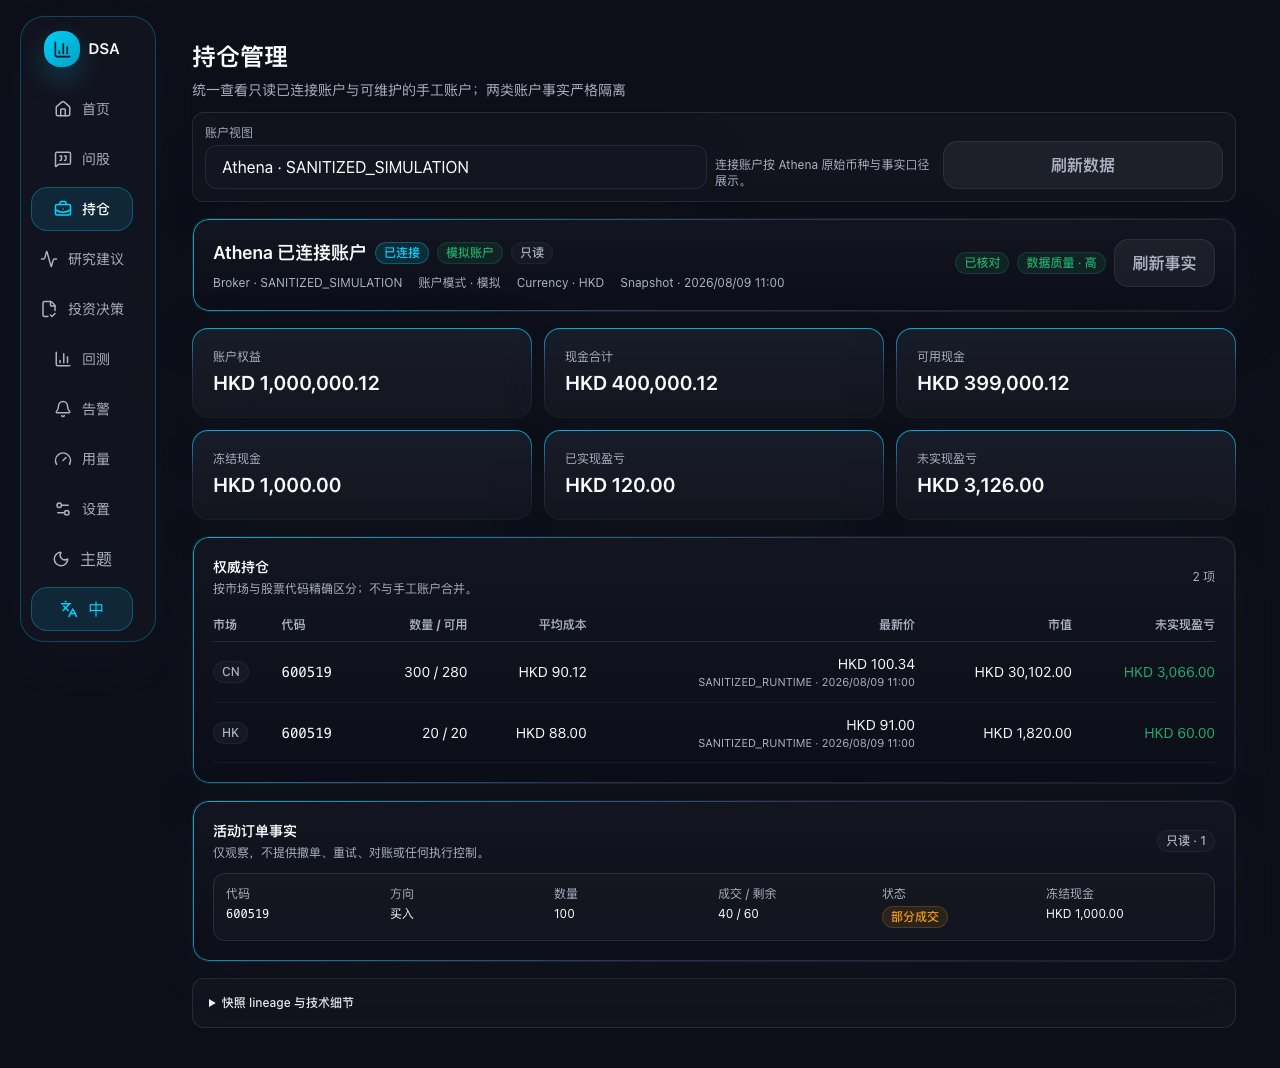
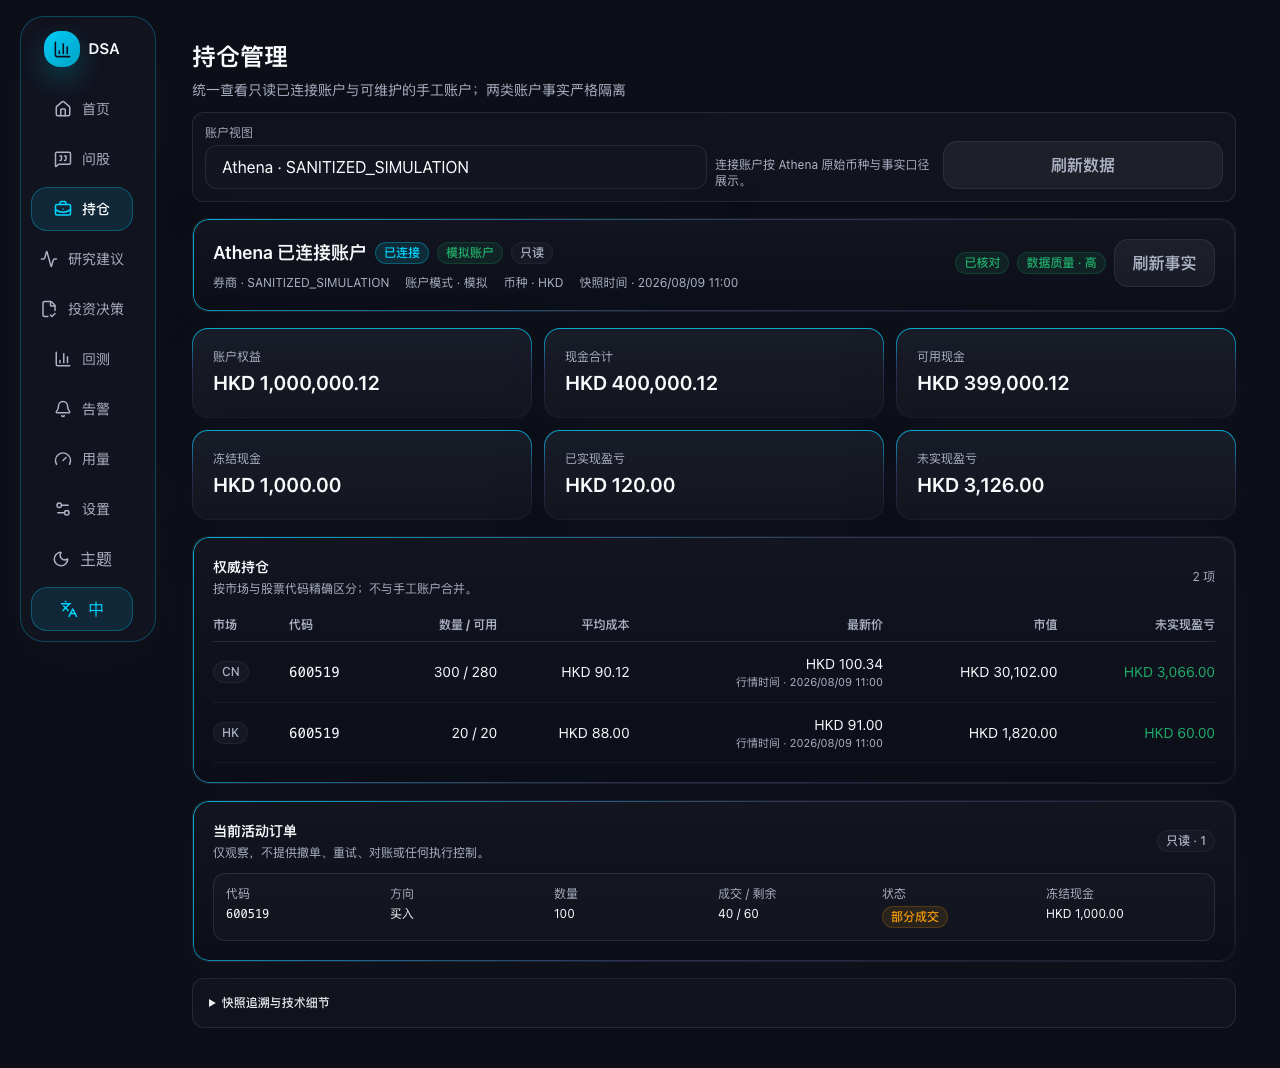
fix: align connected account status semantics

diff --git a/apps/dsa-web/src/components/portfolio/ConnectedPortfolioAccountView.tsx b/apps/dsa-web/src/components/portfolio/ConnectedPortfolioAccountView.tsx
@@ -19,9 +19,17 @@ function formatCanonicalMoney(value: string, currency: string): string {
   })}`;
 }
 
-function statusVariant(value: string): 'success' | 'warning' | 'danger' {
-  if (value === 'RECONCILED' || value === 'HIGH') return 'success';
-  if (value === 'UNKNOWN' || value === 'LOW') return 'danger';
+function reconciliationVariant(
+  value: ConnectedPortfolioSnapshot['reconciliationStatus'],
+): 'success' | 'warning' {
+  return value === 'RECONCILED' ? 'success' : 'warning';
+}
+
+function dataQualityVariant(
+  value: ConnectedPortfolioSnapshot['dataQuality'],
+): 'success' | 'warning' | 'danger' {
+  if (value === 'HIGH') return 'success';
+  if (value === 'LOW') return 'danger';
   return 'warning';
 }
 
@@ -79,7 +87,7 @@ const ConnectedPortfolioAccountView: React.FC<ConnectedPortfolioAccountViewProps
         ) : (
           <EmptyState
             title={loading ? '正在读取权威账户快照' : '尚未取得权威账户快照'}
-            description="此视图只接受 Athena runtime 的 authoritative、read-only、simulation-only PortfolioSnapshot。"
+            description="此视图只接受来自 Athena 运行时的权威、只读、仅模拟账户快照。"
             className="mt-4"
           />
         )}
@@ -113,17 +121,23 @@ const ConnectedPortfolioAccountView: React.FC<ConnectedPortfolioAccountViewProps
               <Badge variant="default">只读</Badge>
             </div>
             <div className="mt-2 flex flex-wrap gap-x-4 gap-y-1 text-xs text-secondary">
-              <span>Broker · {snapshot.broker}</span>
+              <span>券商 · {snapshot.broker}</span>
               <span>账户模式 · 模拟</span>
-              <span>Currency · {snapshot.currency}</span>
-              <span>Snapshot · {formatDateTime(snapshot.asOf)}</span>
+              <span>币种 · {snapshot.currency}</span>
+              <span>快照时间 · {formatDateTime(snapshot.asOf)}</span>
             </div>
           </div>
           <div className="flex flex-wrap items-center gap-2">
-            <Badge variant={statusVariant(snapshot.reconciliationStatus)}>
+            <Badge
+              data-testid="connected-reconciliation-status"
+              variant={reconciliationVariant(snapshot.reconciliationStatus)}
+            >
               {reconciliationLabels[snapshot.reconciliationStatus]}
             </Badge>
-            <Badge variant={statusVariant(snapshot.dataQuality)}>
+            <Badge
+              data-testid="connected-data-quality"
+              variant={dataQualityVariant(snapshot.dataQuality)}
+            >
               数据质量 · {dataQualityLabels[snapshot.dataQuality]}
             </Badge>
             <button type="button" className="btn-secondary text-sm" onClick={onRefresh} disabled={loading}>
@@ -165,7 +179,7 @@ const ConnectedPortfolioAccountView: React.FC<ConnectedPortfolioAccountViewProps
           <span className="text-xs text-secondary">{snapshot.positions.length} 项</span>
         </div>
         {snapshot.positions.length === 0 ? (
-          <EmptyState title="暂无权威持仓" description="该结果来自 Athena 当前 observed runtime state。" />
+          <EmptyState title="暂无权威持仓" description="该结果来自 Athena 当前运行时观察到的账户事实。" />
         ) : (
           <div className="overflow-x-auto">
             <table className="min-w-[920px] w-full text-sm">
@@ -189,7 +203,7 @@ const ConnectedPortfolioAccountView: React.FC<ConnectedPortfolioAccountViewProps
                     <td className="py-3 pr-3 text-right">{formatCanonicalMoney(position.avgCost, snapshot.currency)}</td>
                     <td className="py-3 pr-3 text-right">
                       <div>{formatCanonicalMoney(position.lastPrice, snapshot.currency)}</div>
-                      <div className="text-[11px] text-secondary">{position.priceSource} · {formatDateTime(position.priceAsOf)}</div>
+                      <div className="text-[11px] text-secondary">行情时间 · {formatDateTime(position.priceAsOf)}</div>
                     </td>
                     <td className="py-3 pr-3 text-right">{formatCanonicalMoney(position.marketValue, snapshot.currency)}</td>
                     <td className={`py-3 text-right ${Number(position.unrealizedPnl) >= 0 ? 'text-success' : 'text-danger'}`}>
@@ -206,13 +220,13 @@ const ConnectedPortfolioAccountView: React.FC<ConnectedPortfolioAccountViewProps
       <Card padding="md">
         <div className="mb-3 flex items-center justify-between gap-3">
           <div>
-            <h3 className="text-sm font-semibold text-foreground">活动订单事实</h3>
+            <h3 className="text-sm font-semibold text-foreground">当前活动订单</h3>
             <p className="mt-1 text-xs text-secondary">仅观察，不提供撤单、重试、对账或任何执行控制。</p>
           </div>
           <Badge variant="default">只读 · {snapshot.activeOrders.length}</Badge>
         </div>
         {snapshot.activeOrders.length === 0 ? (
-          <EmptyState title="暂无活动订单" description="此处不推断订单，也不触发 reconciliation。" />
+          <EmptyState title="暂无活动订单" description="此处不推断订单，也不触发账户核对。" />
         ) : (
           <div className="space-y-2">
             {snapshot.activeOrders.map((order) => (
@@ -221,7 +235,7 @@ const ConnectedPortfolioAccountView: React.FC<ConnectedPortfolioAccountViewProps
                 <div><span className="text-secondary">方向</span><div className="mt-1 text-foreground">{order.side === 'BUY' ? '买入' : '卖出'}</div></div>
                 <div><span className="text-secondary">数量</span><div className="mt-1 text-foreground">{order.quantity}</div></div>
                 <div><span className="text-secondary">成交 / 剩余</span><div className="mt-1 text-foreground">{order.filledQuantity} / {order.remainingQuantity}</div></div>
-                <div><span className="text-secondary">状态</span><div className="mt-1"><Badge variant={order.state === 'UNKNOWN' ? 'danger' : 'warning'}>{orderStateLabels[order.state]}</Badge></div></div>
+                <div><span className="text-secondary">状态</span><div className="mt-1"><Badge data-testid={`connected-order-state-${order.brokerOrderId}`} variant="warning">{orderStateLabels[order.state]}</Badge></div></div>
                 <div><span className="text-secondary">冻结现金</span><div className="mt-1 text-foreground">{formatCanonicalMoney(order.reservedCash, snapshot.currency)}</div></div>
               </div>
             ))}
@@ -230,13 +244,19 @@ const ConnectedPortfolioAccountView: React.FC<ConnectedPortfolioAccountViewProps
       </Card>
 
       <details className="rounded-xl border border-white/10 bg-white/[0.02] p-4 text-xs text-secondary">
-        <summary className="cursor-pointer font-medium text-foreground">快照 lineage 与技术细节</summary>
+        <summary className="cursor-pointer font-medium text-foreground">快照追溯与技术细节</summary>
         <dl className="mt-3 grid gap-2 break-all md:grid-cols-2">
-          <div><dt>snapshot_id</dt><dd className="font-mono text-foreground">{snapshot.snapshotId}</dd></div>
-          <div><dt>revision / supersedes</dt><dd className="font-mono text-foreground">{snapshot.revision} / {snapshot.supersedesId || '—'}</dd></div>
-          <div><dt>producer</dt><dd className="font-mono text-foreground">{snapshot.producer}</dd></div>
-          <div><dt>created_at</dt><dd className="font-mono text-foreground">{snapshot.createdAt}</dd></div>
-          <div className="md:col-span-2"><dt>content_hash</dt><dd className="font-mono text-foreground">{snapshot.contentHash}</dd></div>
+          <div><dt>账户快照 ID</dt><dd className="font-mono text-foreground">{snapshot.snapshotId}</dd></div>
+          <div><dt>修订号 / 前序快照</dt><dd className="font-mono text-foreground">{snapshot.revision} / {snapshot.supersedesId || '—'}</dd></div>
+          <div><dt>生产者</dt><dd className="font-mono text-foreground">{snapshot.producer}</dd></div>
+          <div><dt>创建时间</dt><dd className="font-mono text-foreground">{snapshot.createdAt}</dd></div>
+          <div className="md:col-span-2">
+            <dt>行情来源</dt>
+            <dd className="font-mono text-foreground">
+              {snapshot.positions.map((position) => `${position.market}:${position.symbol}=${position.priceSource}`).join('；') || '—'}
+            </dd>
+          </div>
+          <div className="md:col-span-2"><dt>内容哈希</dt><dd className="font-mono text-foreground">{snapshot.contentHash}</dd></div>
         </dl>
       </details>
     </div>

diff --git a/apps/dsa-web/src/pages/__tests__/PortfolioPage.test.tsx b/apps/dsa-web/src/pages/__tests__/PortfolioPage.test.tsx
@@ -3,6 +3,7 @@ import { act, fireEvent, render, screen, waitFor, within } from '@testing-librar
 import { beforeEach, describe, expect, it, vi } from 'vitest';
 import { decisionSignalsApi } from '../../api/decisionSignals';
 import { createApiError, createParsedApiError } from '../../api/error';
+import ConnectedPortfolioAccountView from '../../components/portfolio/ConnectedPortfolioAccountView';
 import { UiLanguageProvider } from '../../contexts/UiLanguageContext';
 import type { DecisionSignalItem } from '../../types/decisionSignals';
 import { UI_LANGUAGE_STORAGE_KEY } from '../../utils/uiLanguage';
@@ -441,6 +442,12 @@ describe('PortfolioPage FX refresh', () => {
 
     const connected = await screen.findByTestId('connected-account-view');
     expect(within(connected).getByText('Athena 已连接账户')).toBeInTheDocument();
+    expect(within(connected).getByText('券商 · ATHENA_DECIMAL_SIM')).toBeInTheDocument();
+    expect(within(connected).getByText('币种 · HKD')).toBeInTheDocument();
+    expect(within(connected).getByText(/^快照时间 ·/)).toBeInTheDocument();
+    expect(within(connected).getByText('快照追溯与技术细节')).toBeInTheDocument();
+    expect(within(connected).getAllByText(/^行情时间 ·/)).toHaveLength(2);
+    expect(within(connected).queryByText(/^(Broker|Currency|Snapshot) ·/)).not.toBeInTheDocument();
     expect(within(connected).getAllByText('HKD', { exact: false }).length).toBeGreaterThan(0);
     expect(within(connected).getAllByText('600519')).toHaveLength(3);
     expect(within(connected).getByText('CN')).toBeInTheDocument();
@@ -459,6 +466,49 @@ describe('PortfolioPage FX refresh', () => {
     fireEvent.change(accountSelect, { target: { value: '1' } });
     expect(await screen.findByRole('button', { name: '提交交易' })).toBeInTheDocument();
     expect(screen.getByRole('button', { name: '提交资金流水' })).toBeInTheDocument();
+  });
+
+  it('renders UNKNOWN facts as pending warnings rather than failures', async () => {
+    const snapshot = makeConnectedSnapshot();
+    getConnectedSnapshot.mockResolvedValueOnce({
+      ...snapshot,
+      reconciliationStatus: 'UNKNOWN' as const,
+      dataQuality: 'UNKNOWN' as const,
+      limitations: [],
+      activeOrders: [{ ...snapshot.activeOrders[0], state: 'UNKNOWN' as const }],
+    });
+    render(<PortfolioPage />);
+    await waitForInitialLoad();
+
+    fireEvent.change(screen.getAllByRole('combobox')[0], { target: { value: 'connected' } });
+
+    const connected = await screen.findByTestId('connected-account-view');
+    for (const testId of [
+      'connected-reconciliation-status',
+      'connected-data-quality',
+      'connected-order-state-order-read-only-1',
+    ]) {
+      const badge = within(connected).getByTestId(testId);
+      expect(badge).toHaveClass('text-warning');
+      expect(badge).not.toHaveClass('text-danger');
+      expect(badge).not.toHaveClass('text-success');
+    }
+    expect(within(connected).getAllByText(/待确认/).length).toBeGreaterThanOrEqual(3);
+  });
+
+  it('uses Chinese product language for the empty connected-account state', () => {
+    render(
+      <ConnectedPortfolioAccountView
+        snapshot={null}
+        loading={false}
+        error={null}
+        onRefresh={vi.fn()}
+      />,
+    );
+
+    expect(screen.getByText('尚未取得权威账户快照')).toBeInTheDocument();
+    expect(screen.getByText('此视图只接受来自 Athena 运行时的权威、只读、仅模拟账户快照。')).toBeInTheDocument();
+    expect(screen.queryByText(/authoritative|read-only|simulation-only|PortfolioSnapshot/)).not.toBeInTheDocument();
   });
 
   it('shows connected unavailability explicitly without fabricating zero balances', async () => {

diff --git a/apps/dsa-web/e2e/portfolio-account-center-visual.spec.ts b/apps/dsa-web/e2e/portfolio-account-center-visual.spec.ts
@@ -106,6 +106,11 @@ test.describe('portfolio account center v1 visual evidence', () => {
     await expect(page.getByTestId('connected-account-view')).toBeVisible();
     await expect(page.getByText('已核对', { exact: true })).toBeVisible();
     await expect(page.getByText('数据质量 · 高')).toBeVisible();
+    await expect(page.getByText('券商 · SANITIZED_SIMULATION')).toBeVisible();
+    await expect(page.getByText('币种 · HKD')).toBeVisible();
+    await expect(page.getByText(/快照时间 ·/)).toBeVisible();
+    await expect(page.getByText(/行情时间 ·/).first()).toBeVisible();
+    await expect(page.getByText('快照追溯与技术细节')).toBeVisible();
     await expect(page.getByText('CN', { exact: true })).toBeVisible();
     await expect(page.getByText('HK', { exact: true })).toBeVisible();
     await expect(page.getByRole('button', { name: '提交交易' })).toHaveCount(0);

diff --git a/docs/DSA_PORTFOLIO_ACCOUNT_CENTER_V1.md b/docs/DSA_PORTFOLIO_ACCOUNT_CENTER_V1.md
@@ -1,6 +1,6 @@
 # DSA 持仓统一账户中心 v1
 
-Status: implementation complete on `ui/portfolio-account-center-v1`; pending architecture review. This document is subordinate to `SINGLE_BRAIN_CONSTITUTION.md` and `DSA_UI_ARCHITECTURE_V1.md`.
+Status: implementation complete on `ui/portfolio-account-center-v1`; Architecture Review UI-semantic follow-up applied, pending re-review. This document is subordinate to `SINGLE_BRAIN_CONSTITUTION.md` and `DSA_UI_ARCHITECTURE_V1.md`.
 
 ## Account source model
 
@@ -48,7 +48,7 @@ The connected view contains no manual trade, cash, corporate-action, CSV, FX mut
 
 Invalid, unavailable, stale, future-dated, non-UTC, wrong-account, non-authoritative, writable, or non-simulation input fails closed with a visible “已连接账户暂时不可用” state. Manual accounts remain selectable and usable.
 
-`DEGRADED`, `PENDING_RECONCILIATION`, `UNKNOWN`, low data quality, and explicit limitations are displayed as factual warning states. The UI does not convert them into success or trigger remediation.
+`DEGRADED`, `PENDING_RECONCILIATION`, `UNKNOWN`, and explicit limitations are displayed as factual warning states. `UNKNOWN` is specifically rendered as pending confirmation, never success or failure/danger; low data quality may retain a danger treatment. The UI does not trigger remediation.
 
 ## Authority and navigation
 
@@ -61,14 +61,14 @@ No fuzzy cross-page lineage links were added. Deterministic navigation can be ad
 - The canonical P0 `ActiveOrder` schema does not contain limit price or market, so v1 displays only actual contract fields and does not invent either value.
 - Connected and manual assets are intentionally not aggregated into one total.
 - Multiple connected accounts, account connection management, trading controls, and broker lifecycle controls remain out of scope.
-- UI labels are Chinese-first; existing English page copy remains available, while connected-card detail copy can be localized in a later UI-only phase.
+- The connected-account primary surface and collapsed technical-detail labels are Chinese-first; canonical identifiers and producer values remain unchanged.
 
 ## Review evidence
 
 - Backend full gate: 5,891 passed, 4 deselected, 501 subtests passed.
-- Frontend full unit suite: 1,100 passed, 2 skipped across 103 files.
+- Frontend full unit suite: 1,102 passed, 2 skipped across 103 files.
 - Focused backend portfolio/architecture suite: 84 passed, including all 16 connected-account cases.
-- Focused frontend API/page suite: 31 passed.
+- Focused frontend API/page suite: 33 passed.
 - TypeScript production build and ESLint: passed.
 - Playwright read-only visual suite: 3 passed.
 
